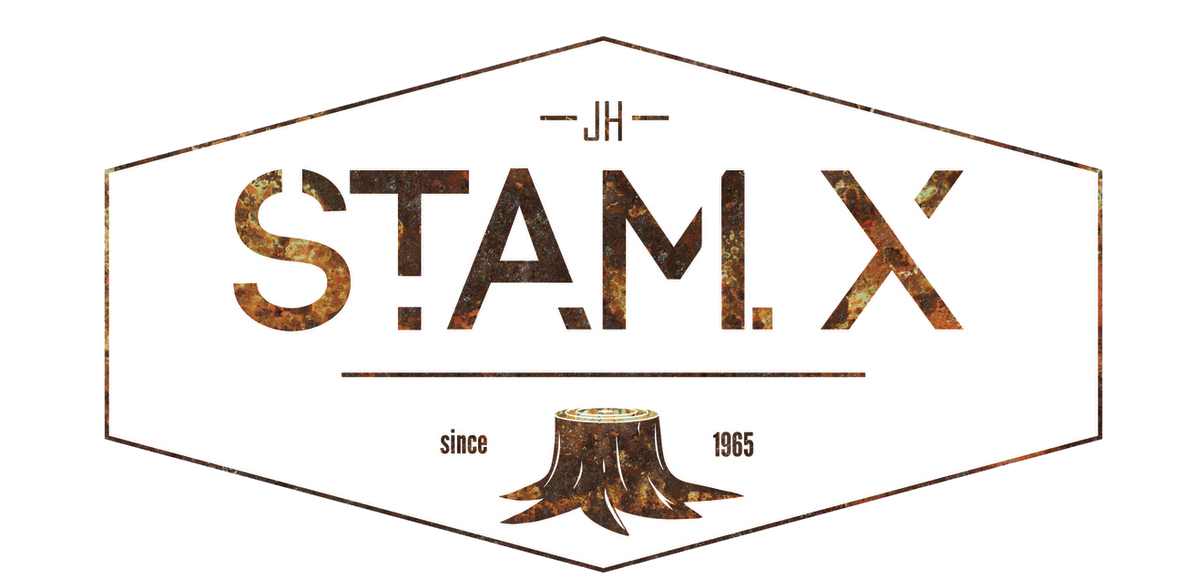
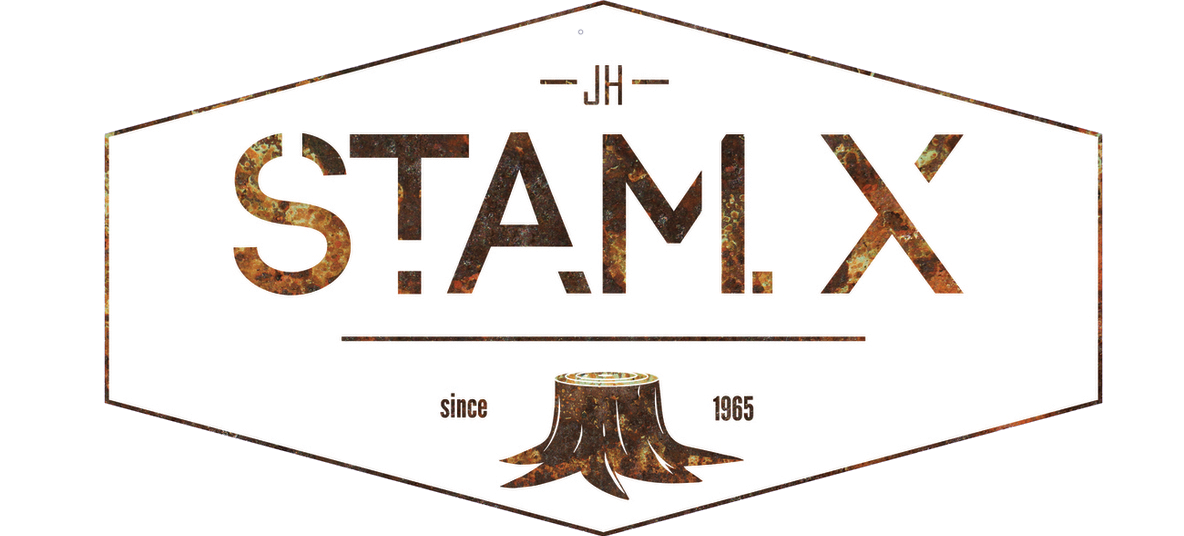
CSS changes

diff --git a/src/components/VoteCombobox.js b/src/components/VoteCombobox.js
@@ -36,13 +36,14 @@ export default class VoteCombobox extends Component {
             filter='contains'
             value={this.state.value}
             onChange={this.handleComboboxChange}
+            className="VoteCombobox"
             />);
 
         chooseVote = (
             <div>
             <p>Kies een partij en druk op bevestigen om je stem uit te brengen</p>
             {comboBox}
-                <p className="Button"><Button bsStyle="default" bsSize="large" block onClick={(e) => this.commitVote(e)}>Stem wijzigen</Button></p>
+                <p className="Button"><Button bsStyle="default" bsSize="large" block onClick={(e) => this.commitVote(e)} className="Button">Stem wijzigen</Button></p>
             </div>
         );
 

diff --git a/src/components/Vote.js b/src/components/Vote.js
@@ -21,7 +21,7 @@ export default class Vote extends Component {
 
                 <div>
                     <p>Bedankt om te stemmen!</p>
-                    <p><Button bsStyle="default" bsSize="large" block onClick={(e) => this.setVote(e)}>Stem wijzigen</Button></p>
+                    <p><Button bsStyle="default" bsSize="large" block onClick={(e) => this.setVote(e)} className="Button">Stem wijzigen</Button></p>
                 </div>
             );
         }

diff --git a/src/App.js b/src/App.js
@@ -10,7 +10,7 @@ class App extends Component {
       <div className="App">
         <header className="App-header">
           <p>
-            Welkom bij de Stam X peiling voor de federale verkiezingen van 26 mei 2019 tst
+            Welkom bij de Stam X peiling voor de federale verkiezingen van 26 mei 2019
           </p>
           <img src={logo} className="App-logo" alt="logo" />
         <Facebook/>

diff --git a/src/App.css b/src/App.css
@@ -7,11 +7,17 @@
   margin-top: 40px;
   animation: App-logo-spin infinite 20s linear;
   height: 40vmin;
+  background-color: #35434f;
+  padding-left: 568px;
+  padding-right: 568px;
+  padding-top: 10px;
+  padding-bottom: 10px;
 }
 
 .App-header {
   background-color: #282c34;
   min-height: 100vh;
+  padding-top: 20px;
   display: flex;
   flex-direction: column;
   align-items: center;

diff --git a/src/components/Facebook.js b/src/components/Facebook.js
@@ -74,6 +74,8 @@ export default class Facebook extends Component {
 
     }
 
+    setHasVoted
+
 }
 
 

diff --git a/public/Vote.css b/public/Vote.css
@@ -1,0 +1,4 @@
+.Button {
+    margin-top: 20px;
+    padding-top:20px
+  }
